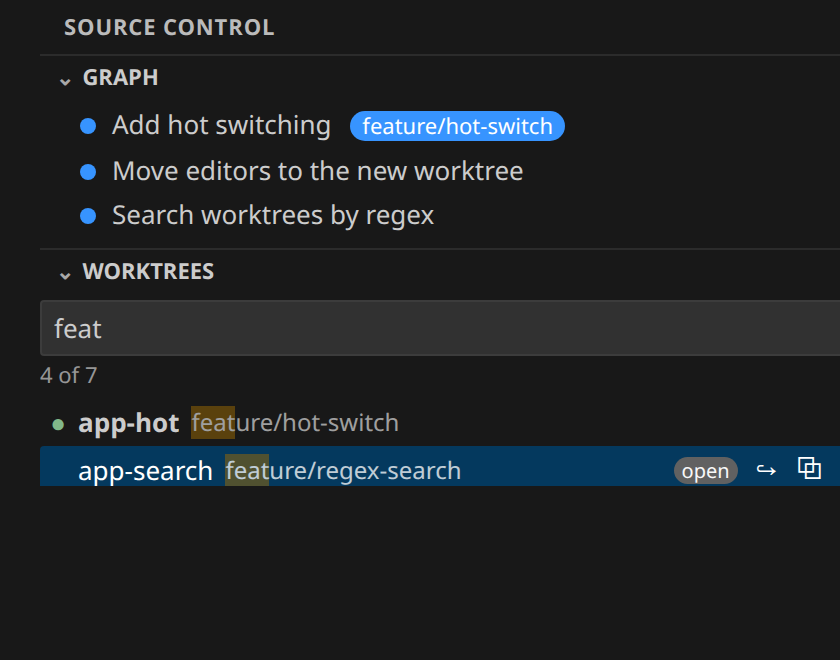
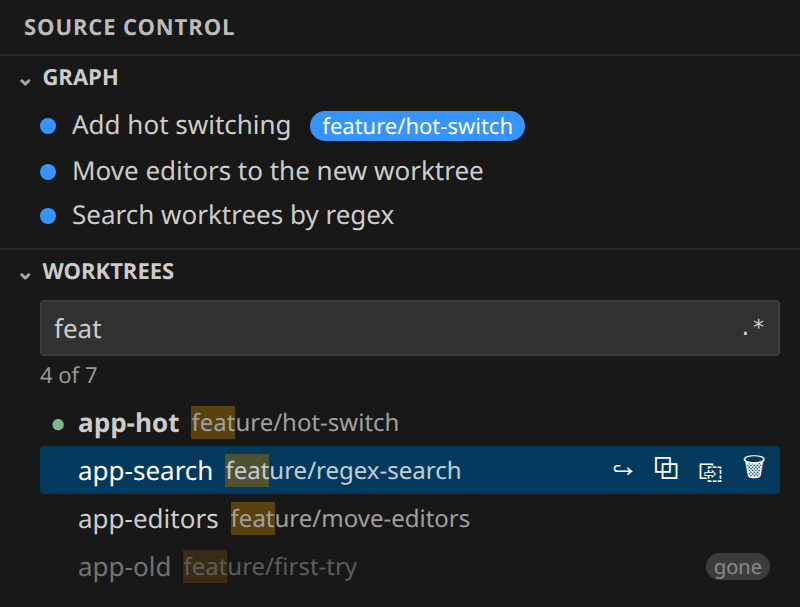
Marketplace README, badges and screenshot; GitHub README for development and releases

diff --git a/images/screenshot.html b/images/screenshot.html
@@ -1,0 +1,29 @@
+<!doctype html><html><head><meta charset="utf-8"><style>
+:root{--vscode-foreground:#cccccc;--vscode-font-family:"Segoe UI",system-ui,sans-serif;--vscode-font-size:13px;--vscode-input-background:#313131;--vscode-input-foreground:#cccccc;--vscode-input-border:#3c3c3c;--vscode-focusBorder:#0078d4;--vscode-input-placeholderForeground:#989898;--vscode-inputOption-activeBackground:#2489db82;--vscode-inputOption-activeBorder:#2488db;--vscode-inputOption-activeForeground:#fff;--vscode-list-hoverBackground:#2a2d2e;--vscode-list-activeSelectionBackground:#04395e;--vscode-list-activeSelectionForeground:#fff;--vscode-gitDecoration-addedResourceForeground:#81b88b;--vscode-badge-background:#616161;--vscode-badge-foreground:#f8f8f8;--vscode-editor-findMatchHighlightBackground:#9e6a03aa;--vscode-editor-font-family:monospace}
+html,body{margin:0;padding:0 !important;background:#181818}
+.frame{width:400px;overflow:hidden;background:#181818;font-family:var(--vscode-font-family);color:#ccc;font-size:13px}
+.hdr{padding:6px 12px;font-size:11px;font-weight:700;letter-spacing:.04em;text-transform:uppercase;color:#bbb}
+.sec{display:flex;align-items:center;gap:4px;padding:3px 8px;font-size:11px;font-weight:700;text-transform:uppercase;border-top:1px solid #2b2b2b}
+.sec span{opacity:.8}
+.graph{padding:2px 20px 6px;font-size:13px;line-height:22px;color:#ccc}
+.graph div{white-space:nowrap;overflow:hidden;text-overflow:ellipsis}
+.graph i{display:inline-block;width:8px;height:8px;border-radius:50%;background:#3794ff;margin-right:8px}
+.b{font-size:11px;padding:0 6px;border-radius:8px;background:#3794ff;color:#fff;margin-left:6px}
+</style><link rel="stylesheet" href="../media/view.css"></head><body><div class="frame">
+<div class="hdr">Source Control</div>
+<div class="sec"><span>⌄</span> Graph</div>
+<div class="graph">
+<div><i></i>Add hot switching <span class="b">feature/hot-switch</span></div>
+<div><i></i>Move editors to the new worktree</div>
+<div><i></i>Search worktrees by regex</div>
+</div>
+<div class="sec"><span>⌄</span> Worktrees</div>
+<div style="padding:0 10px 10px 20px">
+<div class="search"><input id="q" class="" value="feat" spellcheck="false"><button class="toggle" aria-pressed="false">.*</button></div>
+<div class="count">4 of 7</div>
+<ul>
+<li class="cur"><span class="dot">●</span><span class="name">app-hot</span><span class="branch"><mark>feat</mark>ure/hot-switch</span></li>
+<li class="sel"><span class="dot"></span><span class="name">app-search</span><span class="branch"><mark>feat</mark>ure/regex-search</span><button class="act" style="visibility:visible">↪</button><button class="act" style="visibility:visible">⧉</button><button class="act" style="visibility:visible">⎘</button><button class="act" style="visibility:visible">🗑</button></li>
+<li><span class="dot"></span><span class="name">app-editors</span><span class="branch"><mark>feat</mark>ure/move-editors</span></li>
+<li class="gone"><span class="dot"></span><span class="name">app-old</span><span class="branch"><mark>feat</mark>ure/first-try</span><span class="tag">gone</span></li>
+</ul></div></div></body></html>

diff --git a/test/manifest.test.js b/test/manifest.test.js
@@ -6,7 +6,7 @@ const path = require('node:path');
 const root = path.join(__dirname, '..');
 const pkg = JSON.parse(fs.readFileSync(path.join(root, 'package.json'), 'utf8'));
 const source = fs.readFileSync(path.join(root, 'extension.js'), 'utf8');
-const readme = fs.readFileSync(path.join(root, 'README.md'), 'utf8');
+const readme = fs.readFileSync(path.join(root, 'MARKETPLACE.md'), 'utf8');
 const changelog = fs.readFileSync(path.join(root, 'CHANGELOG.md'), 'utf8');
 const declared = Object.keys(pkg.contributes.configuration.properties);
 
@@ -15,8 +15,8 @@ test('every setting the code reads is declared', () => {
   for (const s of new Set(used)) assert.ok(declared.includes(s), `${s} is read but not declared`);
 });
 
-test('every declared setting is documented in the README', () => {
-  for (const s of declared) assert.ok(readme.includes('`' + s + '`'), `${s} is missing from README.md`);
+test('every declared setting is documented in the Marketplace README', () => {
+  for (const s of declared) assert.ok(readme.includes('`' + s + '`'), `${s} is missing from MARKETPLACE.md`);
 });
 
 test('every declared command is registered', () => {

diff --git a/README.md b/README.md
@@ -1,68 +1,71 @@
 # Worktree Switch
 
-A **Worktrees** panel inside VS Code's Source Control view. Find a git worktree by typing part of its name, branch or
-path, and switch to it in place, without reloading the window.
+[![Build](https://github.com/Niko412/worktree-switch/actions/workflows/build.yml/badge.svg)](https://github.com/Niko412/worktree-switch/actions/workflows/build.yml)
+[![Visual Studio Marketplace](https://img.shields.io/visual-studio-marketplace/v/niko412.worktree-switch?label=VS%20Marketplace)](https://marketplace.visualstudio.com/items?itemName=niko412.worktree-switch)
+[![Installs](https://img.shields.io/visual-studio-marketplace/i/niko412.worktree-switch)](https://marketplace.visualstudio.com/items?itemName=niko412.worktree-switch)
+[![Open VSX](https://img.shields.io/open-vsx/v/niko412/worktree-switch?label=Open%20VSX)](https://open-vsx.org/extension/niko412/worktree-switch)
+[![GitHub release](https://img.shields.io/github/v/release/Niko412/worktree-switch)](https://github.com/Niko412/worktree-switch/releases)
+[![Tested on VS Code](https://img.shields.io/badge/tested%20on%20VS%20Code-1.85%20%7C%20stable-007ACC)](https://github.com/Niko412/worktree-switch/actions/workflows/build.yml)
+[![Tested on](https://img.shields.io/badge/tested%20on-Linux%20%7C%20Windows%20%7C%20macOS-555)](https://github.com/Niko412/worktree-switch/actions/workflows/build.yml)
+[![License: MIT](https://img.shields.io/badge/license-MIT-green)](LICENSE)
 
-If you keep many worktrees side by side (one per task or pull request), opening the right one usually means a trip
-through *File → Open Folder* or a new window. This panel lists them all under Changes and the Graph, so switching is
-one click.
+A VS Code extension: a **Worktrees** panel in the Source Control view. Search git worktrees by text or regex and
+switch to one in place, without reloading the window. Open files, Changes and the Graph follow the switch.
 
-## Features
+![The Worktrees panel in Source Control](images/screenshot.png)
 
-- **Lists every worktree** of the current repository, from `git worktree list`: folder name, branch (or detached
-  commit), and tags for `main`, `open`, `gone` (folder deleted) and `locked`. The active one is marked with ●.
-- **Search** by folder name, branch or path. Matches are highlighted. Toggle regular expressions with the `.*`
-  button or **Alt+R**; an invalid expression turns the box red.
-- **Keyboard first**: **Ctrl+Alt+W** (**Cmd+Alt+W** on macOS) jumps to the search box, ↑/↓ move, **Enter** switches,
-  **Alt+Enter** opens in a new window, **Esc** clears.
-- **Hot switch, no reload.** The active worktree is swapped in as a second workspace folder, so extensions,
-  terminals and chat panels keep running.
-- **Your editors come along.** Each open file reopens at the same path in the new worktree. Files with unsaved
-  changes stay where they are.
-- **Source Control follows.** The previous worktree's repository is closed in Source Control, so Changes and the
-  Graph show only the active worktree, and the Graph scrolls to its current commit.
-- **New window when you want one**: Alt+click a row, or use its ⧉ button. ⎘ copies the path.
-- **Stays current**: the list refreshes when worktrees are added or removed.
+The Marketplace listing, with every feature, key and setting, is [MARKETPLACE.md](MARKETPLACE.md).
 
-## How the hot switch works
+## Install
 
-VS Code restarts every extension when the *first* folder of a window changes, but not when a later folder does.
-So the window keeps the folder you opened as a fixed first folder and swaps the active worktree in a second slot:
+- **VS Code:** search *Worktree Switch* in the Extensions view, or
+  [install from the Marketplace](https://marketplace.visualstudio.com/items?itemName=niko412.worktree-switch).
+- **Cursor, VSCodium, Windsurf:** install from [Open VSX](https://open-vsx.org/extension/niko412/worktree-switch).
+- **By hand:** download the `.vsix` from [Releases](https://github.com/Niko412/worktree-switch/releases), then
+  `code --install-extension worktree-switch-X.Y.Z.vsix`.
 
-- The **first** switch turns the window into a multi-root workspace. Extensions restart once (the window does not
-  reload).
-- **Every switch after that is instant.**
-- Switching back to the first folder removes the slot.
+## What is tested
 
-Prefer a plain single-folder window? Set `worktreeSwitch.switchMode` to `reload` and each switch reopens the window
-on the worktree instead.
+Every push and pull request runs, on GitHub's hosted runners:
 
-## Settings
-
-| Setting | Default | What it does |
+| Suite | Where | What |
 |---|---|---|
-| `worktreeSwitch.switchMode` | `hot` | `hot` swaps the worktree in place; `reload` reopens the window on it. |
-| `worktreeSwitch.openIn` | `sameWindow` | Where a plain click opens. Alt+click does the other. |
-| `worktreeSwitch.moveEditors` | `true` | On a hot switch, reopen open editors in the new worktree. |
-| `worktreeSwitch.followInGit` | `true` | On a hot switch, show only the active worktree in Source Control. |
-| `worktreeSwitch.revealInGraph` | `true` | After a hot switch, scroll the Graph to the worktree's current commit. |
-| `worktreeSwitch.hidePrunable` | `false` | Hide worktrees whose folder is gone. |
+| Unit | Node 20 | Parsing `git worktree list`, search and regex, why git refused a delete, Windows paths, the manifest against the code and the README, the release guard |
+| Integration | VS Code **1.85.0** (the minimum) and **stable**, on **Linux, Windows and macOS** | A real VS Code on a throwaway repository with worktrees: switch in place, editors moving, switching back, unsaved editors staying, delete refused, cancelled, asked twice for changes, and done |
 
-## Tips
+The `.vsix` is built only after every test passes.
 
-- The panel appears at the bottom of Source Control. Drag its header to put it between Changes and the Graph;
-  VS Code remembers the spot.
-- VS Code asks whether you trust each worktree folder the first time it is added. Add their parent folder under
-  **Workspaces: Manage Workspace Trust** to skip the prompt.
-- Terminals already open stay in their folder; new ones start in the active worktree.
-- When you close a hot-switched window, VS Code offers to save it as a workspace. Saving keeps the setup.
-- Worktrees marked `gone` can be cleaned up with `git worktree prune`.
+## Development
 
-## Requirements
+```sh
+npm ci
+npm test                    # unit tests
+npm run test:integration    # downloads VS Code and runs the integration tests (needs a display; xvfb-run on Linux)
+npx vsce package --readme-path MARKETPLACE.md
+```
 
-- VS Code 1.85 or newer (or a compatible editor such as Cursor or VSCodium).
-- `git` on the `PATH` of the machine where the workspace lives. It works in Remote SSH, WSL and containers, where
-  it runs next to the repository.
+The code: [extension.js](extension.js) (the extension host side), [media/](media/) (the panel's webview),
+[lib/worktrees.js](lib/worktrees.js) (pure helpers), [test/](test/).
+
+## Releasing
+
+A release is a `vX.Y.Z` tag on `main`; nothing else publishes.
+
+1. In an ordinary commit, bump `version` in `package.json` and add a `## X.Y.Z` entry at the top of `CHANGELOG.md`.
+2. Run `scripts/release.sh`. It tags `origin/main` at the version `package.json` writes, and pushes the tag.
+3. CI's release guard ([scripts/release-guard.sh](scripts/release-guard.sh)) refuses the tag unless it is
+   `vX.Y.Z`, `package.json` and the newest `CHANGELOG.md` entry carry that version, its commit is on `main`, it is
+   higher than every earlier release, and it was not released before. After the tests pass, CI builds the `.vsix`,
+   checks the version inside it too, and attaches it to a GitHub release.
+4. Upload that `.vsix` to the [Marketplace](https://marketplace.visualstudio.com/manage) (New extension → Visual
+   Studio Code, or Update) and to Open VSX (`npx ovsx publish worktree-switch-X.Y.Z.vsix -p <token>`).
+
+Tags `v*` cannot be moved or deleted, and `main` cannot be force-pushed or deleted (repository rulesets).
+
+## Contributing
+
+This repository takes issues, but only its owner can push or open pull requests. Bug reports and ideas are welcome
+in [Issues](https://github.com/Niko412/worktree-switch/issues).
 
 ## License
 

diff --git a/MARKETPLACE.md b/MARKETPLACE.md
@@ -1,41 +1,61 @@
 # Worktree Switch
 
-A **Worktrees** panel inside VS Code's Source Control view. Find a git worktree by typing part of its name, branch or
-path, and switch to it in place, without reloading the window.
+[![Build](https://github.com/Niko412/worktree-switch/actions/workflows/build.yml/badge.svg)](https://github.com/Niko412/worktree-switch/actions/workflows/build.yml)
+[![Visual Studio Marketplace](https://img.shields.io/visual-studio-marketplace/v/niko412.worktree-switch?label=VS%20Marketplace)](https://marketplace.visualstudio.com/items?itemName=niko412.worktree-switch)
+[![Installs](https://img.shields.io/visual-studio-marketplace/i/niko412.worktree-switch)](https://marketplace.visualstudio.com/items?itemName=niko412.worktree-switch)
+[![Open VSX](https://img.shields.io/open-vsx/v/niko412/worktree-switch?label=Open%20VSX)](https://open-vsx.org/extension/niko412/worktree-switch)
+[![Tested on VS Code](https://img.shields.io/badge/tested%20on%20VS%20Code-1.85%20%7C%20stable-007ACC)](https://github.com/Niko412/worktree-switch/actions/workflows/build.yml)
+[![Tested on](https://img.shields.io/badge/tested%20on-Linux%20%7C%20Windows%20%7C%20macOS-555)](https://github.com/Niko412/worktree-switch/actions/workflows/build.yml)
+[![License: MIT](https://img.shields.io/badge/license-MIT-green)](https://github.com/Niko412/worktree-switch/blob/main/LICENSE)
 
-If you keep many worktrees side by side (one per task or pull request), opening the right one usually means a trip
-through *File → Open Folder* or a new window. This panel lists them all under Changes and the Graph, so switching is
-one click.
+**Switch git worktrees from the Source Control view, in place, without reloading the window.**
+
+A **Worktrees** panel sits under Changes and the Graph. Type a few letters of a folder, branch or path, press Enter,
+and the window is on that worktree, with your open files, the Graph and Changes following along.
+
+![The Worktrees panel in Source Control](https://raw.githubusercontent.com/Niko412/worktree-switch/main/images/screenshot.png)
+
+## Why
+
+If you keep a worktree per task or pull request, getting to the right one means *File → Open Folder*, a full
+reload, and losing your terminals and chat. With Worktree Switch it is one click, and nothing restarts.
 
 ## Features
 
-- **Lists every worktree** of the current repository, from `git worktree list`: folder name, branch (or detached
-  commit), and tags for `main`, `open`, `gone` (folder deleted) and `locked`. The active one is marked with ●.
-- **Search** by folder name, branch or path. Matches are highlighted. Toggle regular expressions with the `.*`
-  button or **Alt+R**; an invalid expression turns the box red.
-- **Keyboard first**: **Ctrl+Alt+W** (**Cmd+Alt+W** on macOS) jumps to the search box, ↑/↓ move, **Enter** switches,
-  **Alt+Enter** opens in a new window, **Esc** clears.
-- **Hot switch, no reload.** The active worktree is swapped in as a second workspace folder, so extensions,
-  terminals and chat panels keep running.
-- **Your editors come along.** Each open file reopens at the same path in the new worktree. Files with unsaved
-  changes stay where they are.
-- **Source Control follows.** The previous worktree's repository is closed in Source Control, so Changes and the
-  Graph show only the active worktree, and the Graph scrolls to its current commit.
-- **New window when you want one**: Alt+click a row, or use its ⧉ button. ⎘ copies the path.
-- **Stays current**: the list refreshes when worktrees are added or removed.
+- **Every worktree, in Source Control.** Folder, branch (or detached commit), and tags for `main`, `open`, `gone`
+  and `locked`. ● marks the active one.
+- **Search by text or regex.** Name, branch or path, with matches highlighted. **Alt+R** or `.*` toggles regular
+  expressions.
+- **Hot switch.** No reload: extensions, terminals and chat panels keep running.
+- **Your editors come along.** Open files reopen at the same path in the new worktree; unsaved ones stay put.
+- **Source Control follows.** Changes and the Graph show the active worktree, scrolled to its current commit.
+- **Delete with a confirmation.** 🗑 (or the Delete key) asks Yes/Cancel. Uncommitted changes or a lock ask a
+  second time. The branch is kept.
+- **New window when you want one.** Alt+click, or ⧉ on the row.
+
+## Keyboard
+
+| Key | Action |
+|---|---|
+| **Ctrl+Alt+W** (**Cmd+Alt+W**) | Jump to the search box |
+| ↑ / ↓ | Move through the list |
+| **Enter** | Switch in this window |
+| **Alt+Enter** | Open in a new window |
+| **Delete** | Delete the selected worktree (asks first) |
+| **Alt+R** | Toggle regular expressions |
+| **Esc** | Clear the search |
 
 ## How the hot switch works
 
-VS Code restarts every extension when the *first* folder of a window changes, but not when a later folder does.
-So the window keeps the folder you opened as a fixed first folder and swaps the active worktree in a second slot:
+VS Code restarts every extension when the *first* folder of a window changes, and not when a later one does. So
+the folder you opened stays first, and the active worktree is swapped in as a second folder:
 
-- The **first** switch turns the window into a multi-root workspace. Extensions restart once (the window does not
+- The **first** switch turns the window into a multi-root workspace (extensions restart once; the window does not
   reload).
 - **Every switch after that is instant.**
-- Switching back to the first folder removes the slot.
+- Switching back to the first folder removes the second one.
 
-Prefer a plain single-folder window? Set `worktreeSwitch.switchMode` to `reload` and each switch reopens the window
-on the worktree instead.
+Prefer one folder per window? Set `worktreeSwitch.switchMode` to `reload`.
 
 ## Settings
 
@@ -50,20 +70,16 @@ on the worktree instead.
 
 ## Tips
 
-- The panel appears at the bottom of Source Control. Drag its header to put it between Changes and the Graph;
-  VS Code remembers the spot.
-- VS Code asks whether you trust each worktree folder the first time it is added. Add their parent folder under
-  **Workspaces: Manage Workspace Trust** to skip the prompt.
-- Terminals already open stay in their folder; new ones start in the active worktree.
-- When you close a hot-switched window, VS Code offers to save it as a workspace. Saving keeps the setup.
-- Worktrees marked `gone` can be cleaned up with `git worktree prune`.
+- Drag the **Worktrees** header between Changes and the Graph; VS Code remembers where you put it.
+- VS Code asks whether to trust each new worktree folder. Trust their parent folder once (**Workspaces: Manage
+  Workspace Trust**) to skip that.
+- Terminals already open stay where they were; new ones start in the active worktree.
 
 ## Requirements
 
-- VS Code 1.85 or newer (or a compatible editor such as Cursor or VSCodium).
-- `git` on the `PATH` of the machine where the workspace lives. It works in Remote SSH, WSL and containers, where
-  it runs next to the repository.
+- VS Code 1.85 or newer, or a compatible editor (Cursor, VSCodium, Windsurf).
+- `git` on the machine where the workspace lives. Works locally and over Remote SSH, WSL and Dev Containers.
 
-## License
+## Feedback
 
-[MIT](LICENSE)
+Found a bug or have an idea? [Open an issue](https://github.com/Niko412/worktree-switch/issues).
